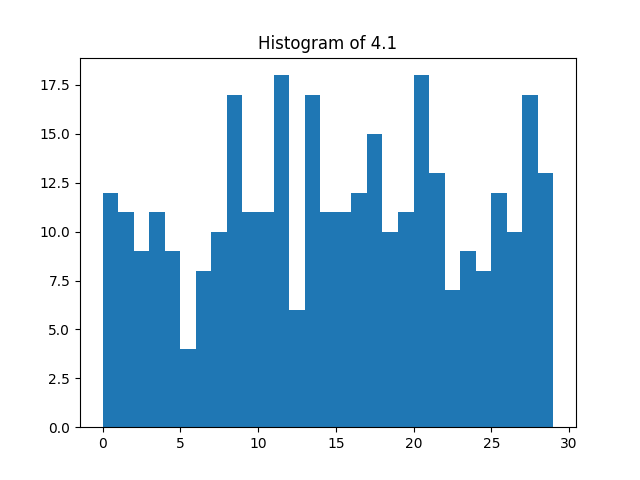
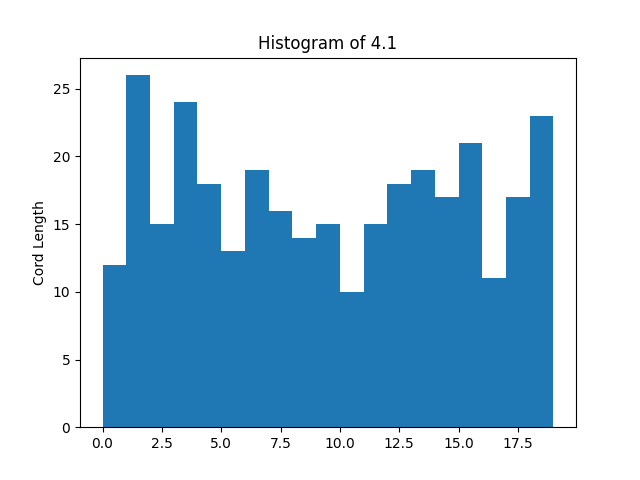
Q4, all parts

diff --git a/Q4.py b/Q4.py
@@ -1,17 +1,16 @@
 import matplotlib.pyplot as plt
 import numpy as np
 import math as m
-import random as rndm
 
 # 4.1 -------------------------------------------------------------------------------------------
 def random_theta():
-    theta1 = np.random.uniform(0,360)*(m.pi/180)
-    theta2 = np.random.uniform(0,360)*(m.pi/180)
+    theta1 = np.random.uniform(0,360)*(m.pi/180)    #random theta 1
+    theta2 = np.random.uniform(0,360)*(m.pi/180)    #random theta 2
     return (theta1,theta2)
 
 def cord(R):
     angle = random_theta()
-    theta = abs(angle[0] - angle[1])
+    theta = abs(angle[0] - angle[1])    #theta between the two radius(theta1 and theta2)
     l = 2*R*m.sin(theta/2)  #length of cord = 2rsin(theta/2)
     return(l)
 
@@ -25,6 +24,7 @@ def find_cords1(R):
 
     plt.hist(cord_len, bins = range(0,R))
     plt.title("Histogram of 4.1")
+    plt.ylabel("Cord Length")
     plt.savefig("Q4/Q4(1).png")
     plt.show()
 
@@ -59,7 +59,53 @@ def find_cords2(R):
     
     plt.hist(cord_len, bins = range(0,R))
     plt.title("Histogram of 4.2")
+    plt.ylabel("Cord Length")
     plt.savefig("Q4/Q4(2).png")
     plt.show()
 
 # 4.3 -------------------------------------------------------------------------------------------
+
+def p_to_o(cord):
+    return m.sqrt(cord[0]**2+cord[1]**2)
+
+def random_point(R):
+
+    x = np.random.uniform(-R,R)  #random point x
+    y = np.random.uniform(-R,R)  #random point y
+    
+    return (x,y)
+
+def cal_cord(R,pnt):
+    #finding adjacent from the random point.
+    adj = p_to_o(pnt)
+
+    #length of opposite
+    opp = m.sqrt(R**2-adj**2)
+
+    #length of the cord
+    l = 2*opp
+
+    return l
+
+def find_cords3(R):
+
+    I = 1000
+    cord_len = []
+
+    for a in range(I):
+        point = random_point(R)
+        if p_to_o(point) <= R:
+            cord_len.append(cal_cord(R,point))
+        else:
+            a = a - 1
+    
+    plt.hist(cord_len, bins = range(0,R))
+    plt.title("Histogram of 4.3")
+    plt.ylabel("Cord Length")
+    plt.savefig("Q4/Q4(3).png")
+    plt.show()
+
+
+find_cords1(20)
+find_cords2(20)
+find_cords3(20)
